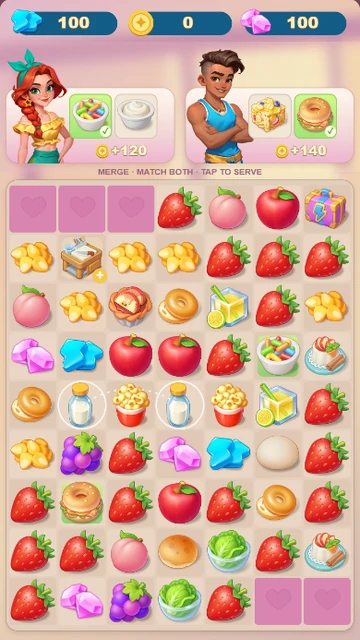
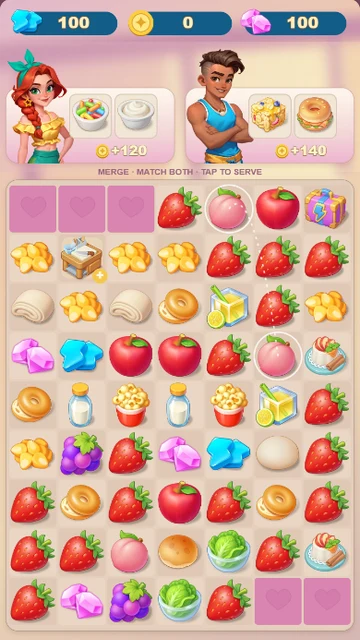
Require merging every Order Merge request from ingredients

diff --git a/index.html b/index.html
@@ -326,8 +326,8 @@ main{max-width:1320px;margin:auto;padding:0 24px 96px}.toolbar{position:sticky;t
   <div class="card-body"><h2>Shelf Sort</h2><span class="category">Match</span></div>
  </a></article>
 <article class="card" data-type="Merge">
- <a class="playable" href="order-merge/index.html?v=order-double-tap-20261016" target="_blank" rel="noopener" aria-label="Play Order Merge">
-  <div class="poster"><img data-src="order-merge/preview.webp?v=order-double-tap-20261016" alt="Order Merge preview"  decoding="async"><span class="play-mark" aria-hidden="true">▶</span></div>
+ <a class="playable" href="order-merge/index.html?v=order-from-ingredients-20261016" target="_blank" rel="noopener" aria-label="Play Order Merge">
+  <div class="poster"><img data-src="order-merge/preview.webp?v=order-from-ingredients-20261016" alt="Order Merge preview"  decoding="async"><span class="play-mark" aria-hidden="true">▶</span></div>
   <div class="card-body"><h2>Order Merge</h2><span class="category">Merge</span></div>
  </a></article></section>
  <p class="empty" id="empty" hidden>No games found</p>

diff --git a/order-merge/index.html b/order-merge/index.html
@@ -6,11 +6,11 @@ const orders=[{id:0,person:'sera',name:'Sera',items:['candy','cream'],reward:120
 const initial=[
  [null,null,null,'strawberry','peach','apple','gift'],
  ['kernels','generator','kernels','kernels','strawberry','strawberry','strawberry'],
- ['peach','kernels','croissant','bagel','juice','strawberry','kernels'],
- ['gem','energy','apple','apple','strawberry','candy','cakebit'],
+ ['pastry','kernels','pastry','bagel','juice','strawberry','kernels'],
+ ['gem','energy','apple','apple','strawberry','peach','cakebit'],
  ['bagel','milk','bucket','milk','bucket','juice','strawberry'],
  ['kernels','grapes','strawberry','gem','energy','dough','strawberry'],
- ['strawberry','burger','strawberry','apple','strawberry','bagel','strawberry'],
+ ['strawberry','bagel','strawberry','apple','strawberry','bagel','strawberry'],
  ['strawberry','strawberry','peach','bun','lettuce','strawberry','cakebit'],
  ['strawberry','gem','grapes','lettuce','strawberry',null,null]
 ].flat();

diff --git a/order-merge/README.md b/order-merge/README.md
@@ -5,6 +5,7 @@
 ## 玩法
 
 - 7 列 × 9 行棋盘，保留左上及右下粉色爱心区域；开局 58 件物品。
+- 开局不放置四位顾客要求的任何成品；八件订单物品全部需要由低级材料合成。对应材料数量已配齐，标准流程无需额外补料。
 - 拖动两件相同、同等级道具，合成一个升级道具。原位置留空，其他格子保持原位，不下落补齐。
 - 可以把物品移到空格、交换不同普通物品；点击选中后再点击目标也能操作。
 - 顶部同时展示两个订单，每单需要两件成品。已有成品会变绿并显示勾选；两件齐全后，可以双击棋盘上任意一件对应成品，或点击绿色 Serve，提交整单。手机支持连续双点；单击仍用于选中，拖动仍可合成。
@@ -16,7 +17,7 @@
 
 ## 自动试玩与结尾
 
-Auto Play 根据当前盘面选择合法合成、补料、交付操作；支持暂停、继续及手动接管。标准路径是 5 次合成、4 次双物品交付，奖励全部到账后显示 Perfect。
+Auto Play 根据当前盘面选择合法合成、补料、交付操作；支持暂停、继续及手动接管。标准路径是 8 次合成、4 次双物品交付，奖励全部到账后显示 Perfect。
 
 结算至少保留 2.6 秒，再完整播放 5 秒静音 Juicy Journey 落版，保持最后一帧，手动 Retry 才重开。没有返回列表或下载按钮。
 

diff --git a/体积与音乐检查.md b/体积与音乐检查.md
@@ -85,8 +85,9 @@
 <!-- /shelf-sort-release -->
 
 
+
 <!-- order-merge-release -->
 ## 2026-10-16 · Order Merge
 
-更新双订单合成，支持双击成品交付，合集共 60 款。独立 HTML 748,709 字节，ZIP 555,045 字节，均低于 5 MB；本地游戏美术内嵌，无 BGM，操作音效后台暂停。
+更新双订单合成，八件需求均由材料合成，合集共 60 款。独立 HTML 748,706 字节，ZIP 555,128 字节，均低于 5 MB；本地游戏美术内嵌，无 BGM，操作音效后台暂停。
 <!-- /order-merge-release -->
